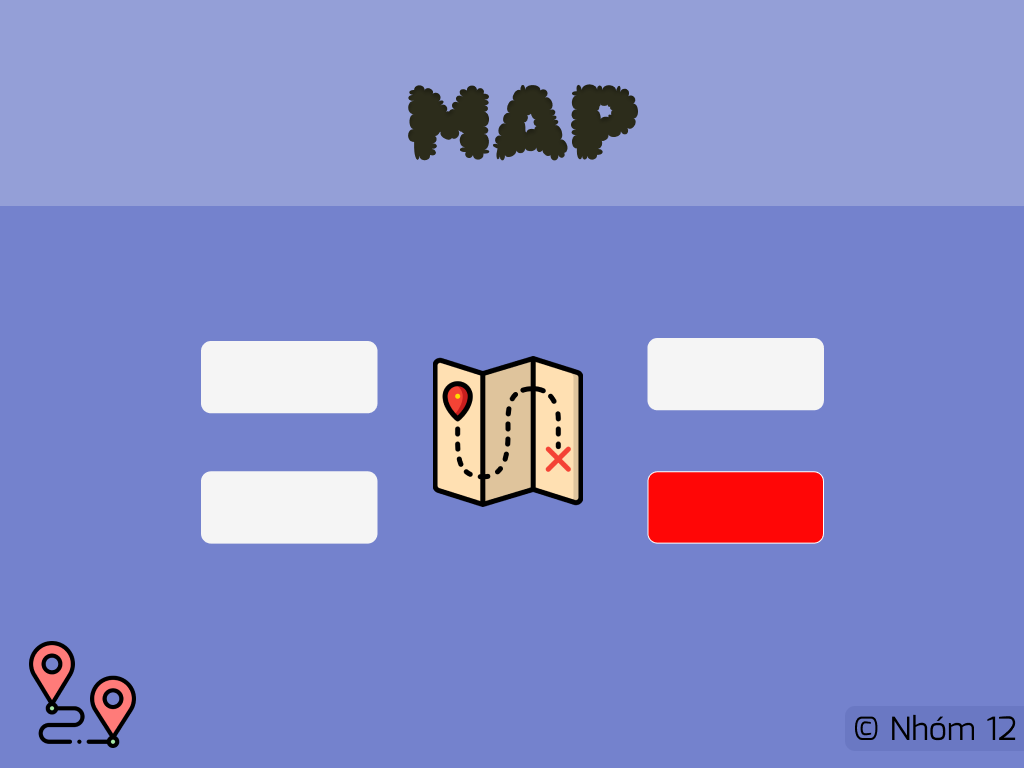
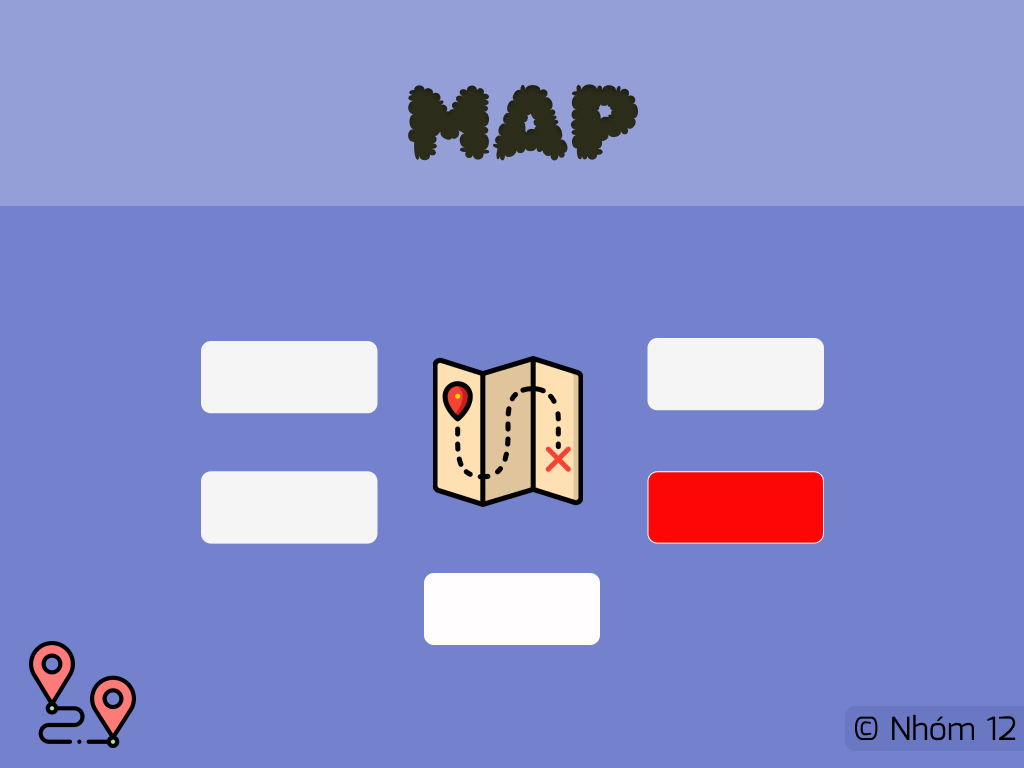
add no_padding map and fix display size

Changed region(s): [[0.4062, 0.7188, 0.5938, 0.8438]]

diff --git a/chooseMap.py b/chooseMap.py
@@ -47,7 +47,12 @@ def draw_menu(window):
         text = font_option.render(option, True, text_color)
         text_rect = text.get_rect(center=(WINDOW_WIDTH // 2 + 230, 378 + i * 132))
         window.blit(text, text_rect)
-    
+
+    font_option = pygame.font.SysFont('Courier New', 25)
+    text = font_option.render("No Padding", True, BLACK)
+    text_rect = text.get_rect(center=(515,  613))
+    window.blit(text, text_rect)
+
     pygame.display.flip()
 
 def main_menu():
@@ -92,6 +97,14 @@ def main_menu():
                             subprocess.Popen(["python", "menu.py"])  # Quay về menu.py
                             pygame.quit()  # Thoát khỏi cửa sổ hiện tại
                             sys.exit()
+
+                    elif 575 <= mouse_pos[1] <= 647:
+                         if 424 <= mouse_pos[0] <= 601 :
+                            print("No Padding!")
+                            subprocess.Popen(["python", file,"no_padding.txt"])
+                            pygame.quit()
+                            sys.exit()
+                         
         
         draw_menu(window)
         clock.tick(60)

diff --git a/A.py b/A.py
@@ -5,7 +5,7 @@ import queue
 import time
 from math import*
 window_width = 1024 -200
-window_height = 768
+window_height = 700
 window = pygame.display.set_mode((window_width + 200, window_height))
 window = pygame.display.set_mode((window_width + 200, window_height))
 

diff --git a/L3.py b/L3.py
@@ -7,7 +7,7 @@ import time
 from itertools import permutations
 
 window_width = 1024 - 200
-window_height = 768
+window_height = 700
 
 window = pygame.display.set_mode((window_width + 200, window_height))
 

diff --git a/DFS.py b/DFS.py
@@ -5,7 +5,7 @@ import pygame.font
 import time
 
 window_width = 1024 -200
-window_height = 768
+window_height = 700
 
 
 window = pygame.display.set_mode((window_width + 200, window_height))

diff --git a/L1_BFS.py b/L1_BFS.py
@@ -6,7 +6,7 @@ import time
 import subprocess
 
 window_width = 1024 - 200
-window_height = 768
+window_height = 700
 
 window = pygame.display.set_mode((window_width + 200, window_height))
 

diff --git a/L2.py b/L2.py
@@ -11,7 +11,7 @@ RED = (255, 0, 0)
 
 # Kích thước cửa sổ
 WINDOW_WIDTH = 1024
-WINDOW_HEIGHT = 768
+WINDOW_HEIGHT = 700
 
 def draw_menu(window):
     # Load background image
